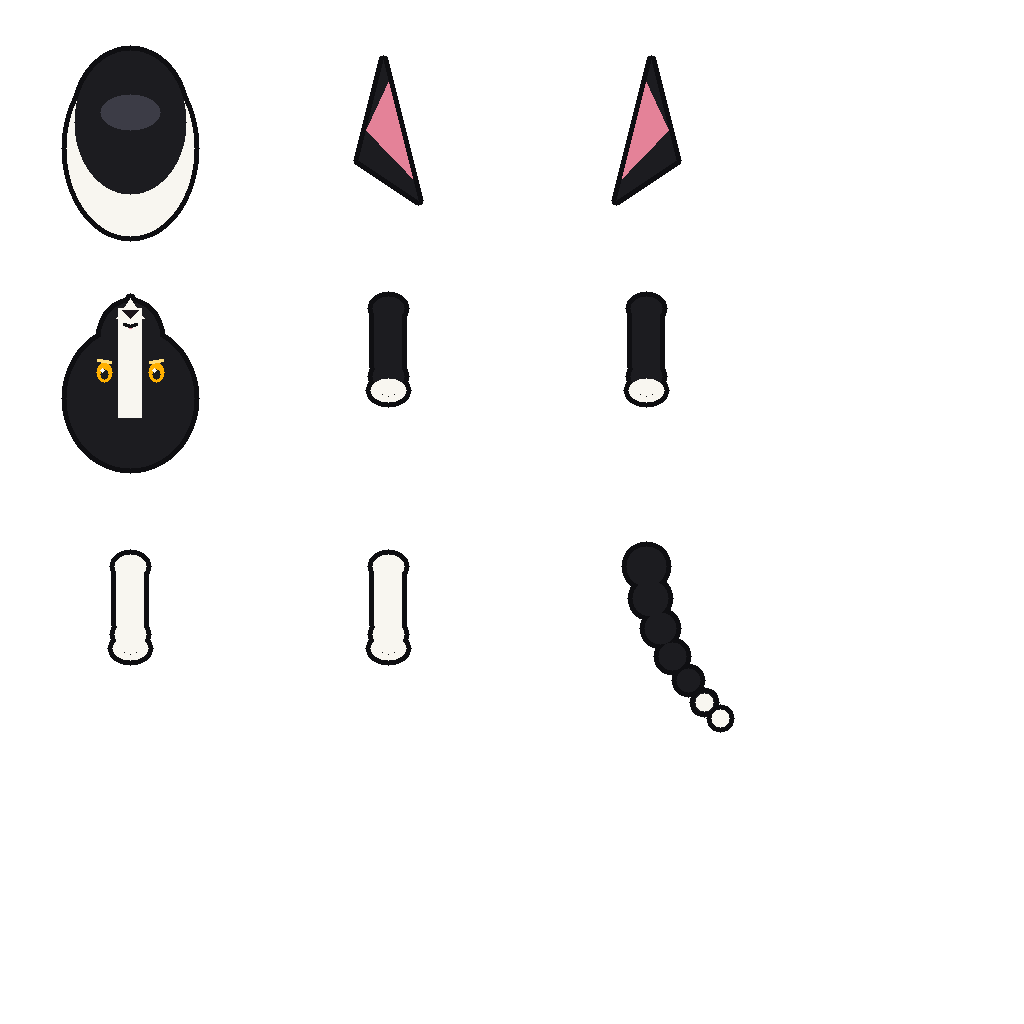
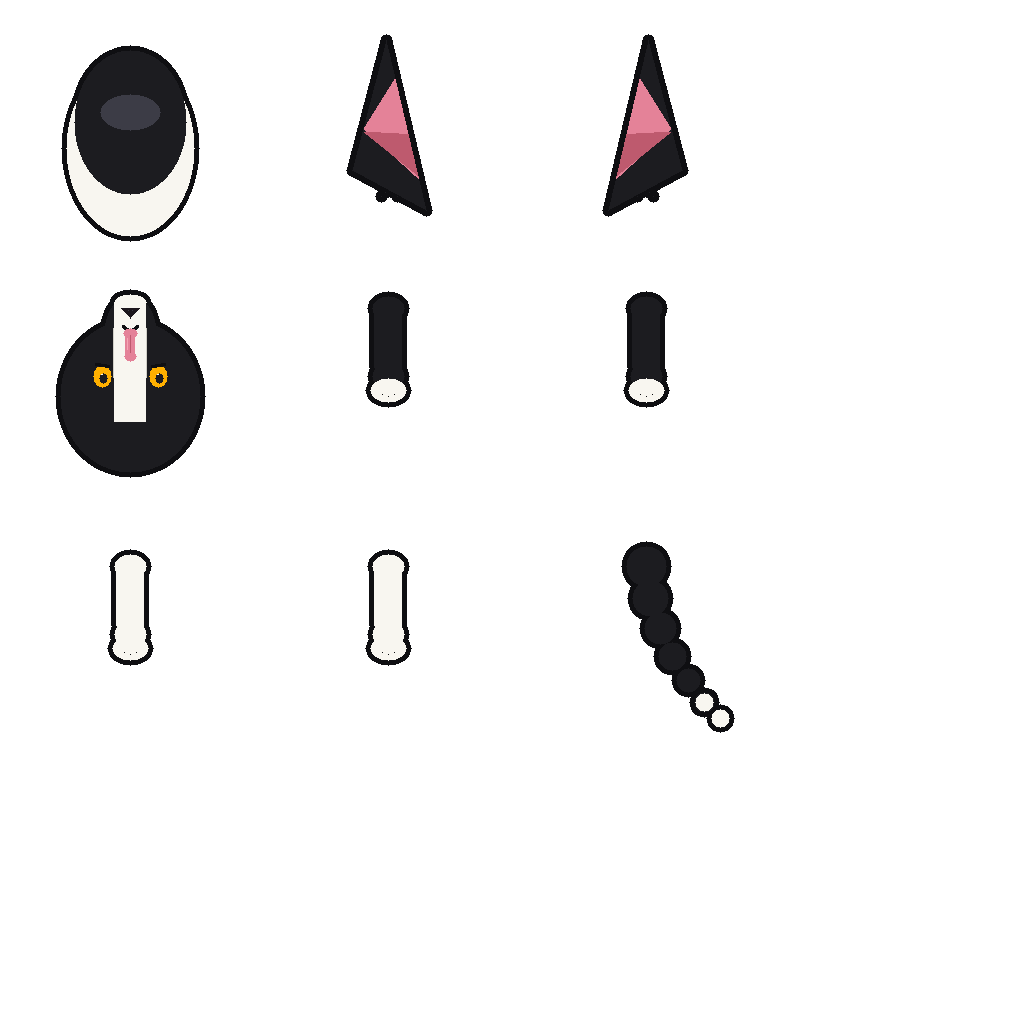
Fix Rosie disappear + refine art + accurate Katy Trail tile
- Bug fix: Spine Rosie now sits at depth=200 (above all scenery and tiles) and
  is destroyed on scene shutdown so it does not outlive a run. Previously the
  depth was 15 and shutdown left a stale reference, causing Rosie to vanish
  behind scenery or stop following on retry.
- Art: refined head and ears based on the real photo — wider white blaze,
  bigger pointed ears with prominent pink interior + darker pink base shadow
  + fluff tufts at the ear base, signature pink tongue dangling out the
  open mouth, longer snout.
- Map: rebuilt the Katy Trail tile to match the real trail. Replaced the
  road-style yellow center stripe with the actual layout: 12-ft concrete
  cycle path on the left + thin grass divider + 8-ft crushed-granite
  pedestrian path on the right, with outer grass margins. Added concrete
  expansion joints every 24 px and seeded pebbles in the granite.

Refs: katytraildallas.org, en.wikipedia.org/wiki/Katy_Trail_(Dallas)

diff --git a/src/lib/game/scenes/GameScene.ts b/src/lib/game/scenes/GameScene.ts
@@ -117,6 +117,15 @@ export class GameScene extends Phaser.Scene {
 		this.events.once(Phaser.Scenes.Events.SHUTDOWN, () => {
 			for (const fn of this.cleanupHandlers) fn();
 			this.cleanupHandlers = [];
+			// Ensure the Spine overlay doesn't outlive the scene
+			if (this.spineRosie) {
+				try {
+					(this.spineRosie as Phaser.GameObjects.GameObject).destroy();
+				} catch {
+					// already destroyed
+				}
+				this.spineRosie = undefined;
+			}
 		});
 
 		if (this.registry.get('spineTest')) {
@@ -158,13 +167,14 @@ export class GameScene extends Phaser.Scene {
 			const rosie = sceneAny.add.spine(this.player.x, this.player.y, 'rosie-data', 'rosie-atlas') as typeof this.spineRosie;
 			if (!rosie) throw new Error('add.spine returned undefined');
 			rosie.setScale(0.35);
-			rosie.setDepth(15);
+			// Depth 200 is well above scenery (-3..-1), tiles (-1000), enemies (5),
+			// player (10), boss (8). Keeps Rosie always visible.
+			rosie.setDepth(200);
 			rosie.animationState?.setAnimation(0, 'idle', true);
 			this.spineRosie = rosie;
-			// Hide the pixel-art player sprite so we only see the Spine version
 			(this.player as Phaser.GameObjects.Sprite).setAlpha(0);
 			banner.setText('[SPINE] OK — Rosie rigged, playing idle');
-			console.log('[spineTest] Rosie spine object created');
+			console.log('[spineTest] Rosie spine object created at', this.player.x, this.player.y);
 		} catch (err) {
 			banner.setText('[SPINE] FAIL — see console: ' + (err as Error).message).setColor('#ff3b5c');
 			console.error('[spineTest] failed to render Rosie:', err);
